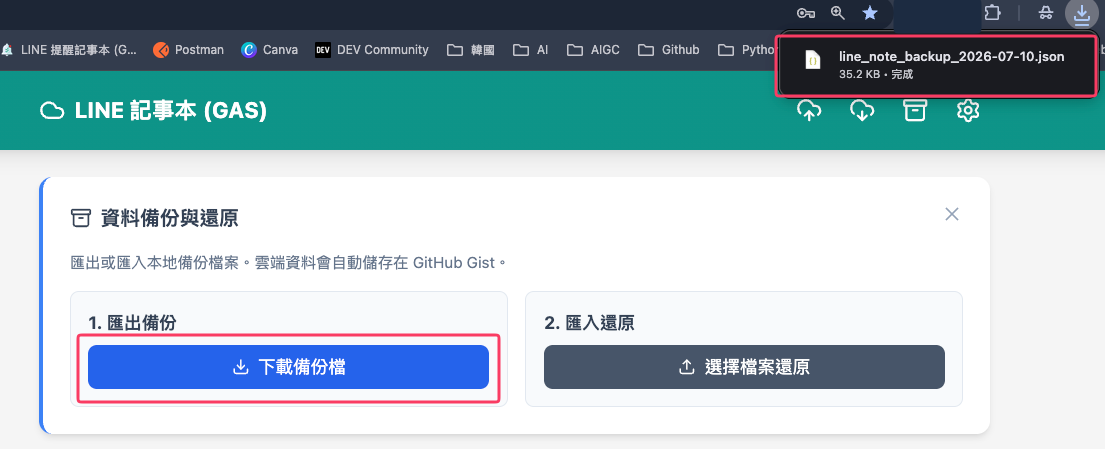
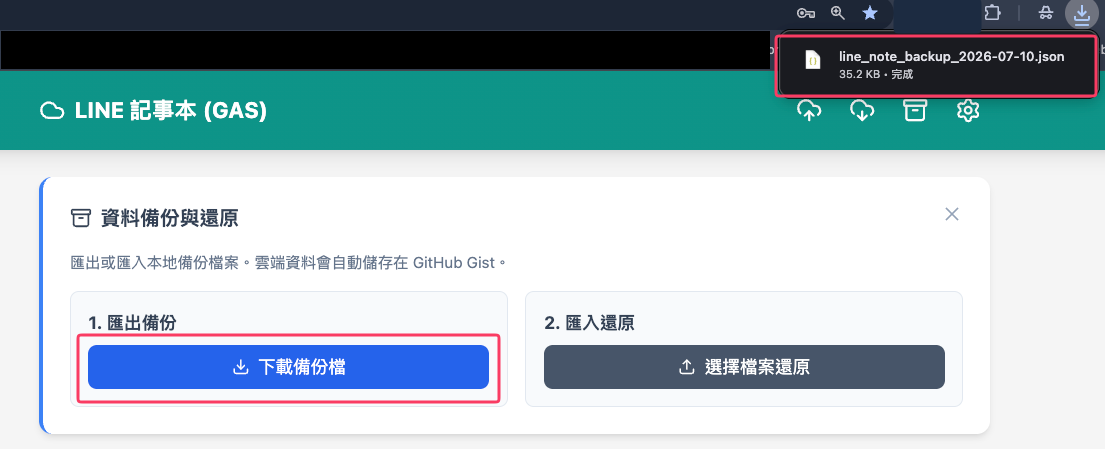
feat: 作品集頁面新增計數與優化顯示

Changed region(s): [[0.0, 0.0624, 0.7077, 0.1559]]

diff --git a/index.html b/index.html
@@ -966,7 +966,11 @@
     <section id="portfolio" class="py-24 px-6">
         <div class="max-w-7xl mx-auto">
             <div class="text-center mb-16">
-                <h2 class="text-3xl md:text-4xl font-bold tracking-tight mb-4 text-ink">精選作品集</h2>
+                <h2 class="text-3xl md:text-4xl font-bold tracking-tight mb-4 text-ink relative inline-block">
+                    精選作品集
+                    <span id="project-count"
+                        class="absolute left-full top-1/2 -translate-y-1/2 ml-3 bg-primary/10 text-primary text-xl md:text-2xl px-4 py-1 rounded-full font-bold border border-primary/20 shadow-sm"></span>
+                </h2>
                 <p class="text-ink-mute font-light">My Projects</p>
                 <div class="h-1 w-16 bg-primary mx-auto mt-4 rounded-full"></div>
             </div>
@@ -1112,7 +1116,7 @@
                     { src: "./assets/images/Bank3.png", caption: "各國匯率資料，共顯示19國匯率資訊" },
                     { src: "./assets/images/Bank4.jpeg", caption: "牌告匯率，直接開啟台灣銀行網站" },
                     { src: "./assets/images/Bank5.jpeg", caption: "匯率換算，顯示台灣銀行換率換算網址" },
-                    { src: "./assets/images/Bank6.jpeg", caption: "歷史走勢查詢(下拉選單)，顯示各國匯率清單" },
+                    { src: "./assets/images/Bank6.jpeg", caption: "歷史走勢查詢(按鈕選單)，顯示各國匯率清單" },
                     { src: "./assets/images/Bank7.jpeg", caption: "歷史走勢查詢(點選國家後)，會自動開啟該國在台灣銀行網站的歷史牌告匯率頁面" },
                     { src: "./assets/images/Bank1.png", caption: "Render部署畫面" },
                 ],
@@ -1650,7 +1654,7 @@
                 demoVideo: '',
                 categories: ['LowCode'],
                 technologies: ['Microsoft Power Apps', 'SharePoint'],
-                automate: 'https://drive.google.com/file/d/1XqJNdJ80nm6lgUCW3M_wD0EzJxUpESCi/view?usp=sharing'
+                //automate: 'https://drive.google.com/file/d/1XqJNdJ80nm6lgUCW3M_wD0EzJxUpESCi/view?usp=sharing'
             },
         ];
 
@@ -1673,6 +1677,8 @@
         let currentGalleryIndex = -1;
 
         function renderProjects(filteredProjects) {
+            const countEl = document.getElementById('project-count');
+            if (countEl) countEl.textContent = filteredProjects.length;
             portfolioGrid.innerHTML = '';
             filteredProjects.forEach(project => {
                 const card = `